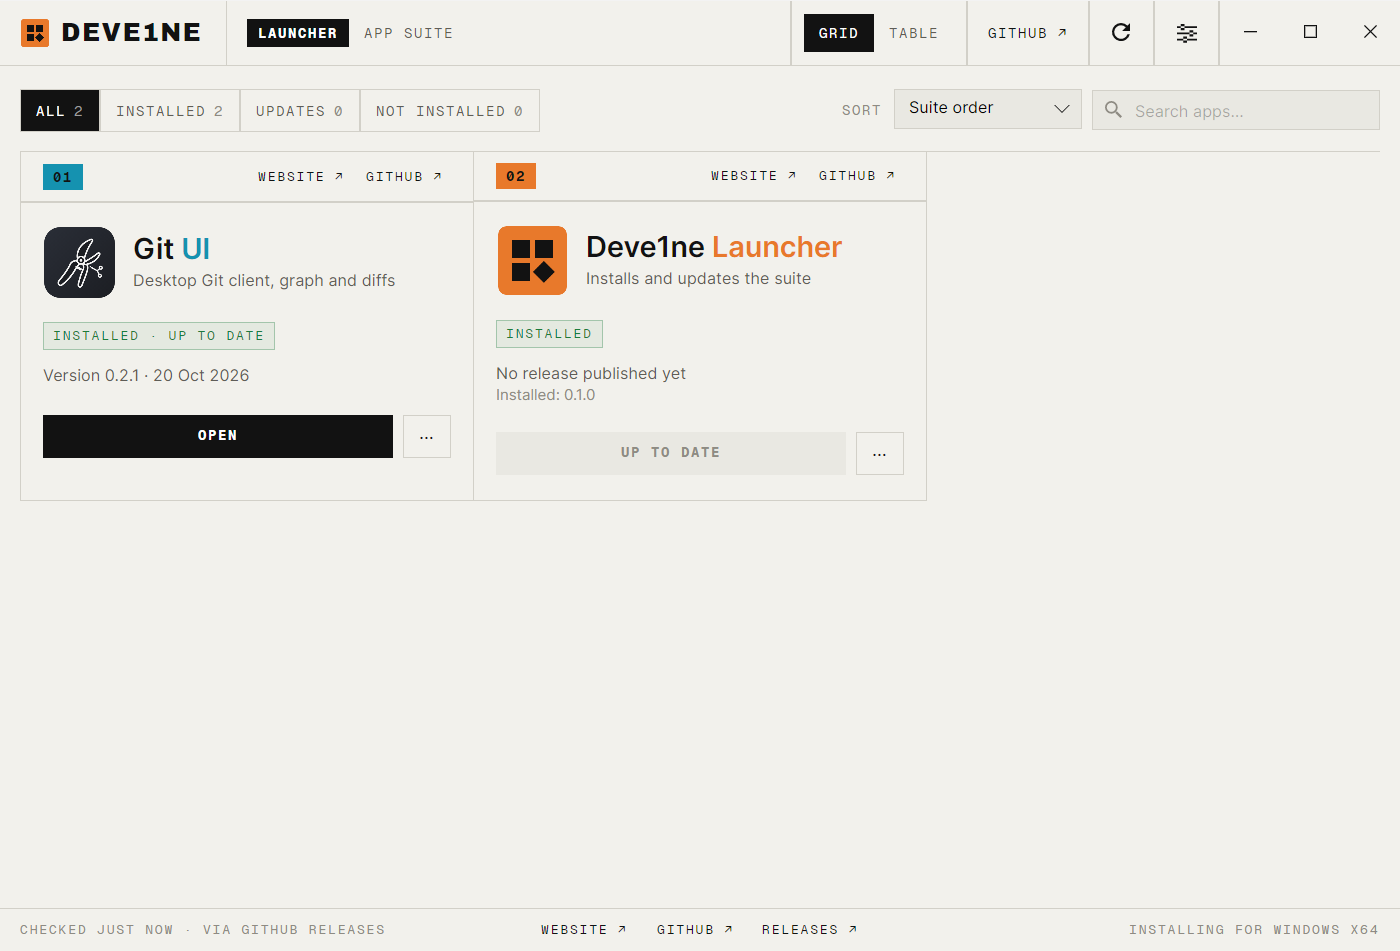
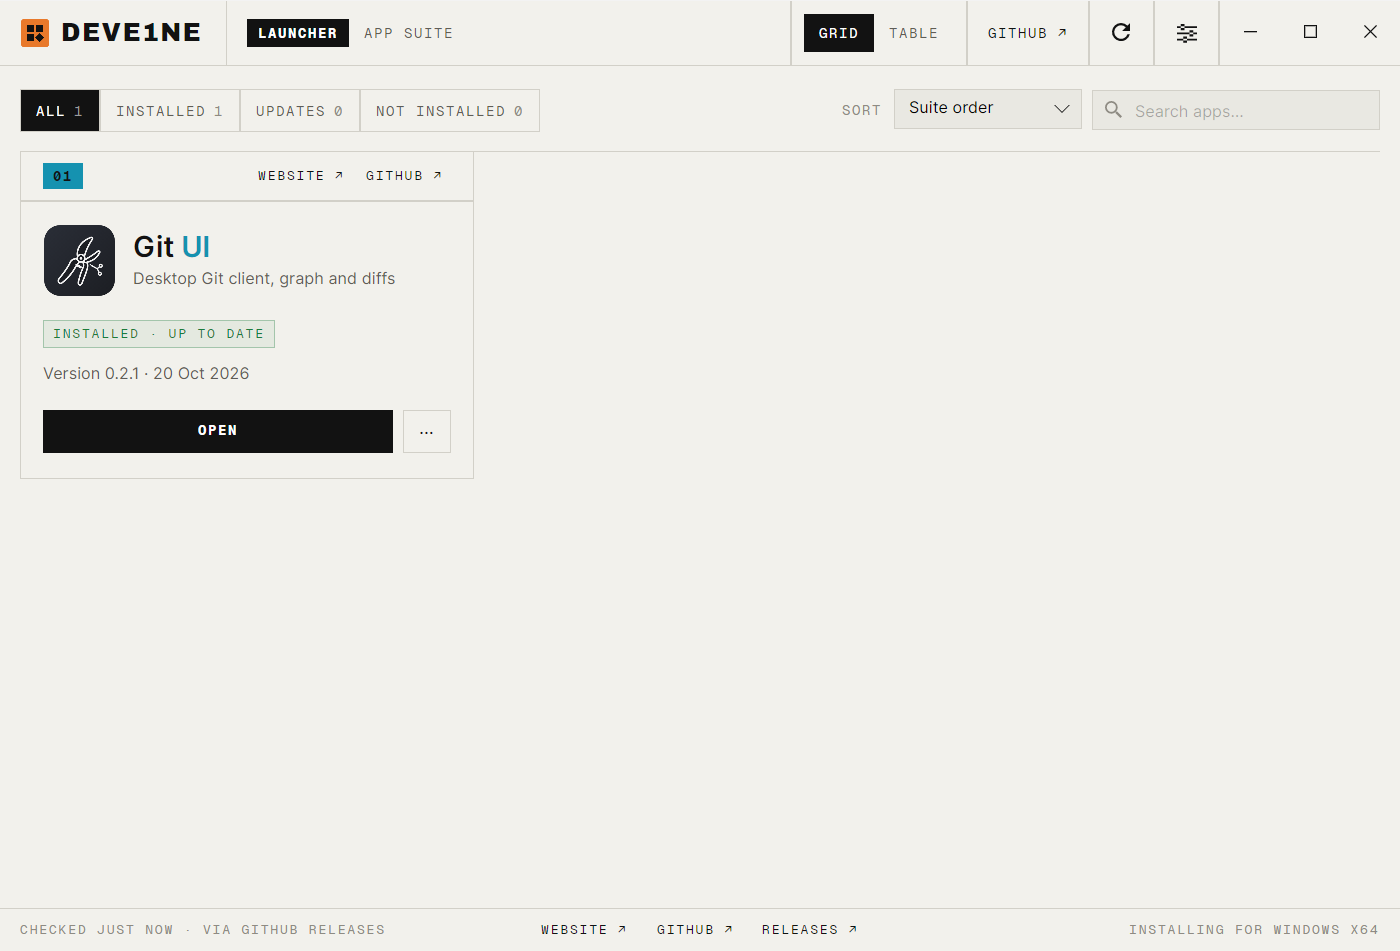
The launcher updates itself from the title bar instead of a card among the apps

diff --git a/src/Deve1ne.Launcher/ViewModels/LauncherViewModel.cs b/src/Deve1ne.Launcher/ViewModels/LauncherViewModel.cs
@@ -32,10 +32,14 @@ public partial class LauncherViewModel : ObservableObject
             Apps.Add(new AppCardViewModel(app, AppInstallers.For(app), _gitHub, this));
         }
 
+        Self = new AppCardViewModel(SuiteCatalog.Launcher, AppInstallers.For(SuiteCatalog.Launcher), _gitHub, this);
         ApplyFilter();
     }
 
     public LauncherSettings Settings { get; }
+
+    /// <summary>The launcher itself: its update button sits in the title bar, not among the apps.</summary>
+    public AppCardViewModel Self { get; }
 
     public ObservableCollection<AppCardViewModel> Apps { get; } = new();
 
@@ -172,7 +176,8 @@ public partial class LauncherViewModel : ObservableObject
         StatusText = "CHECKING…";
 
         // One request per repository, all at once; a failing repository only leaves its apps offline.
-        var repositories = Apps.Select(a => a.App.Repository).Distinct(StringComparer.OrdinalIgnoreCase).ToList();
+        var everything = Apps.Append(Self).ToList();
+        var repositories = everything.Select(a => a.App.Repository).Distinct(StringComparer.OrdinalIgnoreCase).ToList();
         var lookups = repositories.ToDictionary(r => r, r => _gitHub.GetLatestReleaseAsync(r), StringComparer.OrdinalIgnoreCase);
         var errors = new List<string>();
         foreach (var (repository, lookup) in lookups)
@@ -194,7 +199,7 @@ public partial class LauncherViewModel : ObservableObject
             _checkedAt = DateTimeOffset.Now;
         }
 
-        foreach (var app in Apps)
+        foreach (var app in everything)
         {
             var lookup = lookups[app.App.Repository];
             app.Refresh(lookup.IsCompletedSuccessfully ? lookup.Result : null, lookup.IsCompletedSuccessfully);

diff --git a/src/Deve1ne.Launcher/ViewModels/AppCardViewModel.cs b/src/Deve1ne.Launcher/ViewModels/AppCardViewModel.cs
@@ -43,6 +43,23 @@ public partial class AppCardViewModel : ObservableObject
     public bool IsLauncher => App.Kind == InstallKind.Self;
 
     [ObservableProperty] private AppState state = AppState.Unknown;
+
+    /// <summary>The launcher's title-bar button: shown while an update is available or running.</summary>
+    public bool ShowSelfUpdate => IsBusy || State == AppState.UpdateAvailable;
+
+    public string SelfUpdateText => IsBusy ? BadgeText : $"UPDATE LAUNCHER · {_release?.Version}";
+
+    partial void OnStateChanged(AppState value) => NotifySelfUpdate();
+
+    partial void OnIsBusyChanged(bool value) => NotifySelfUpdate();
+
+    partial void OnBadgeTextChanged(string value) => NotifySelfUpdate();
+
+    private void NotifySelfUpdate()
+    {
+        OnPropertyChanged(nameof(ShowSelfUpdate));
+        OnPropertyChanged(nameof(SelfUpdateText));
+    }
     [ObservableProperty] private string? installedVersion;
     [ObservableProperty] private string badgeText = "CHECKING…";
     [ObservableProperty] private IBrush badgeForeground = Brushes.Gray;

diff --git a/src/Deve1ne.Launcher/Core/SuiteCatalog.cs b/src/Deve1ne.Launcher/Core/SuiteCatalog.cs
@@ -72,9 +72,10 @@ public static class SuiteCatalog
         InstallFolderName: "GitUi",
         ExecutableName: "GitUi.Presentation.exe");
 
+    /// <summary>The launcher itself: not listed with the apps, it updates from the title bar.</summary>
     public static readonly SuiteApp Launcher = new(
         Id: "launcher",
-        Number: "02",
+        Number: "00",
         Name: "Deve1ne ",
         Accent: "Launcher",
         Tagline: "Installs and updates the suite",
@@ -83,5 +84,6 @@ public static class SuiteCatalog
         Repository: LauncherRepository,
         AssetPattern: "Deve1ne-Launcher-{version}-win-x64.exe");
 
-    public static IReadOnlyList<SuiteApp> All { get; } = new[] { GitUi, Launcher };
+    /// <summary>The apps shown on the page, in suite order.</summary>
+    public static IReadOnlyList<SuiteApp> All { get; } = new[] { GitUi };
 }

diff --git a/README.md b/README.md
@@ -30,7 +30,8 @@
   release before anything is installed.
 - **No administrator rights.** Apps install for the current user; an open app is asked to close
   (and save its session) before it is updated.
-- **Updates itself.** The launcher is one of the apps: a new release replaces it and restarts it.
+- **Updates itself.** When a new launcher is out, an *Update launcher* button shows up in the title bar:
+  one click replaces it and restarts it.
 - Grid or table view, filters (all, installed, updates, not installed), sort and search.
 
 <img src="docs/launcher-table.png" alt="The table view: one row per app" width="100%" />
@@ -40,14 +41,14 @@
 | # | App | Repository |
 |---|---|---|
 | 01 | **Git UI**: a fast desktop Git client with a readable commit graph | [Deve1ne/git-ui](https://github.com/Deve1ne/git-ui) |
-| 02 | **Deve1ne Launcher**: this app | [Deve1ne/deve1ne-launcher](https://github.com/Deve1ne/deve1ne-launcher) |
 
 ## Install
 
 Download `Deve1ne-Launcher-<version>-win-x64.exe` from the
 **[latest release](https://github.com/Deve1ne/deve1ne-launcher/releases/latest)** and run it. It copies
 itself to `%LocalAppData%\Programs\Deve1ne Launcher`, adds a Start menu shortcut and an entry in
-*Settings > Apps*, then opens. Uninstalling it there leaves the apps it installed in place.
+*Settings > Apps*, then opens. Uninstalling it (there, or from its own settings) leaves the apps it
+installed in place.
 
 The executable is not code-signed yet, so Windows SmartScreen asks for a confirmation the first time
 (*More info* > *Run anyway*).
